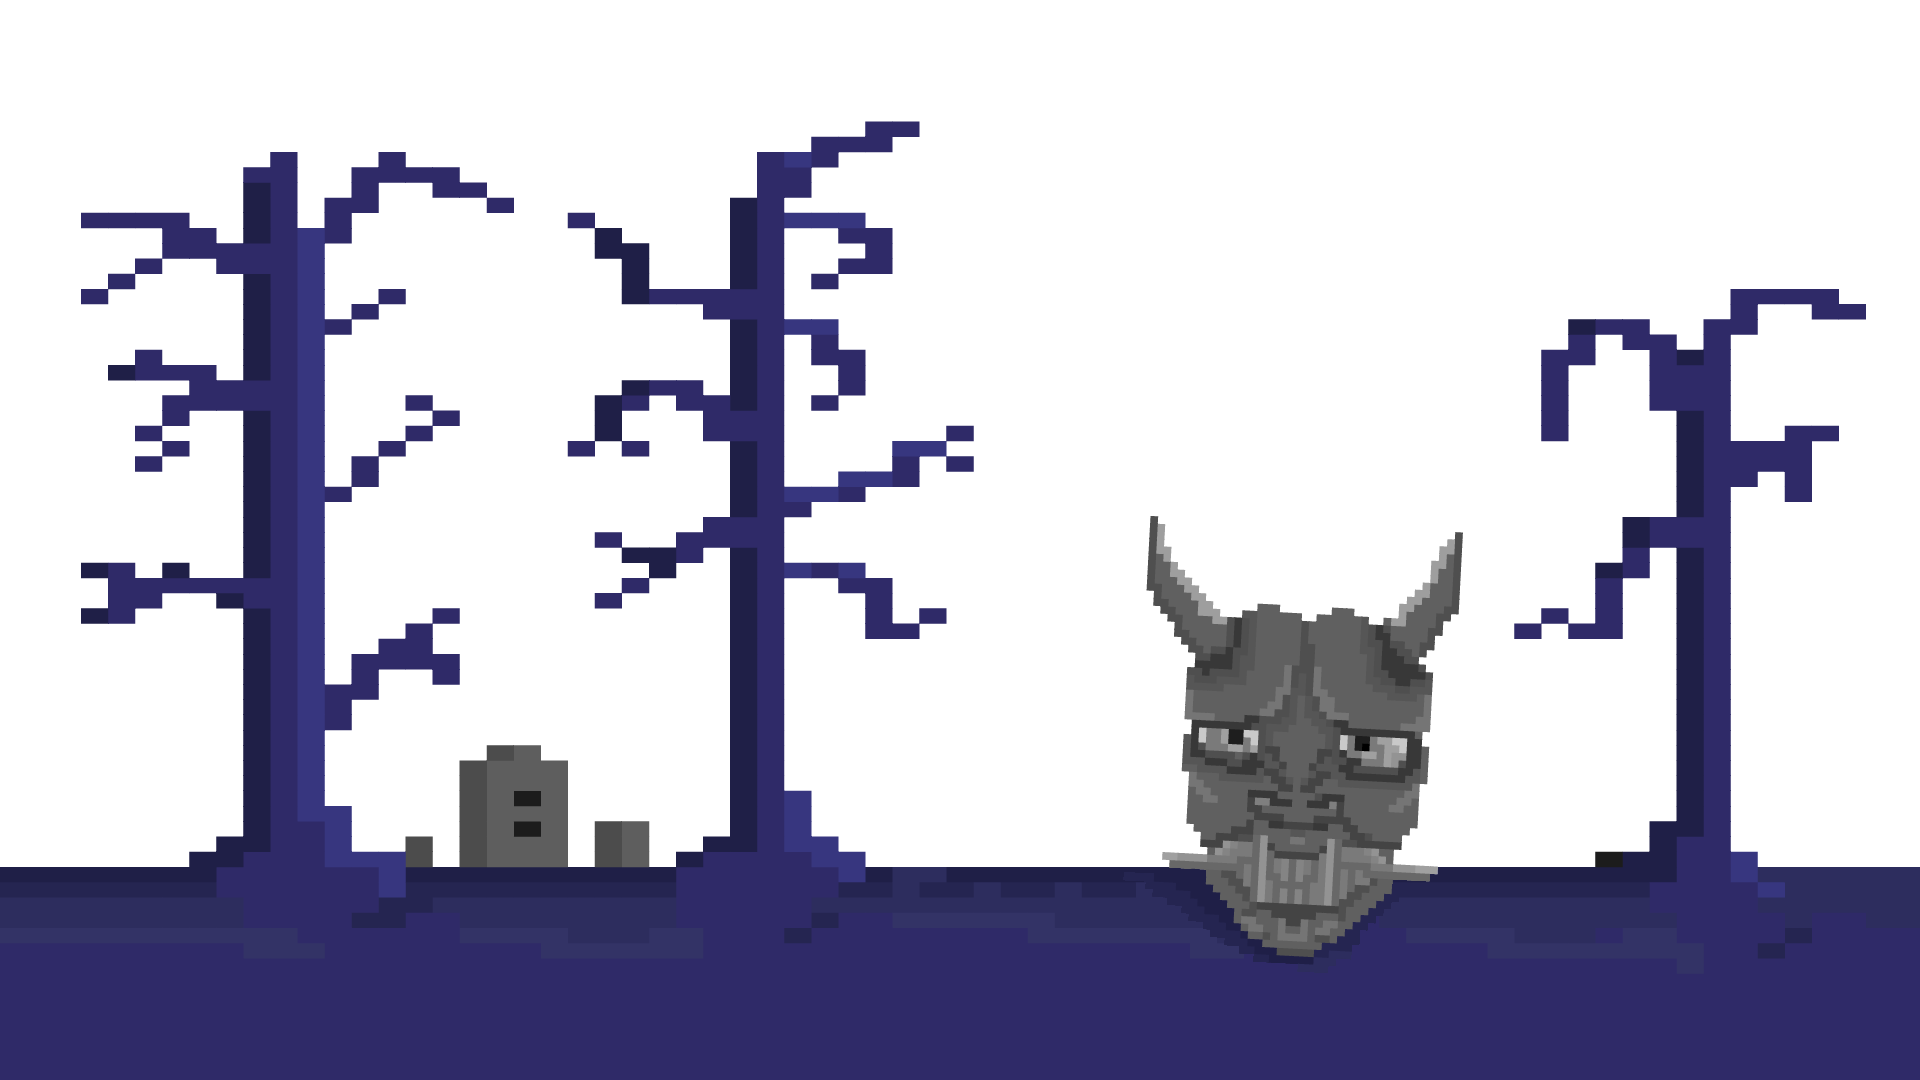
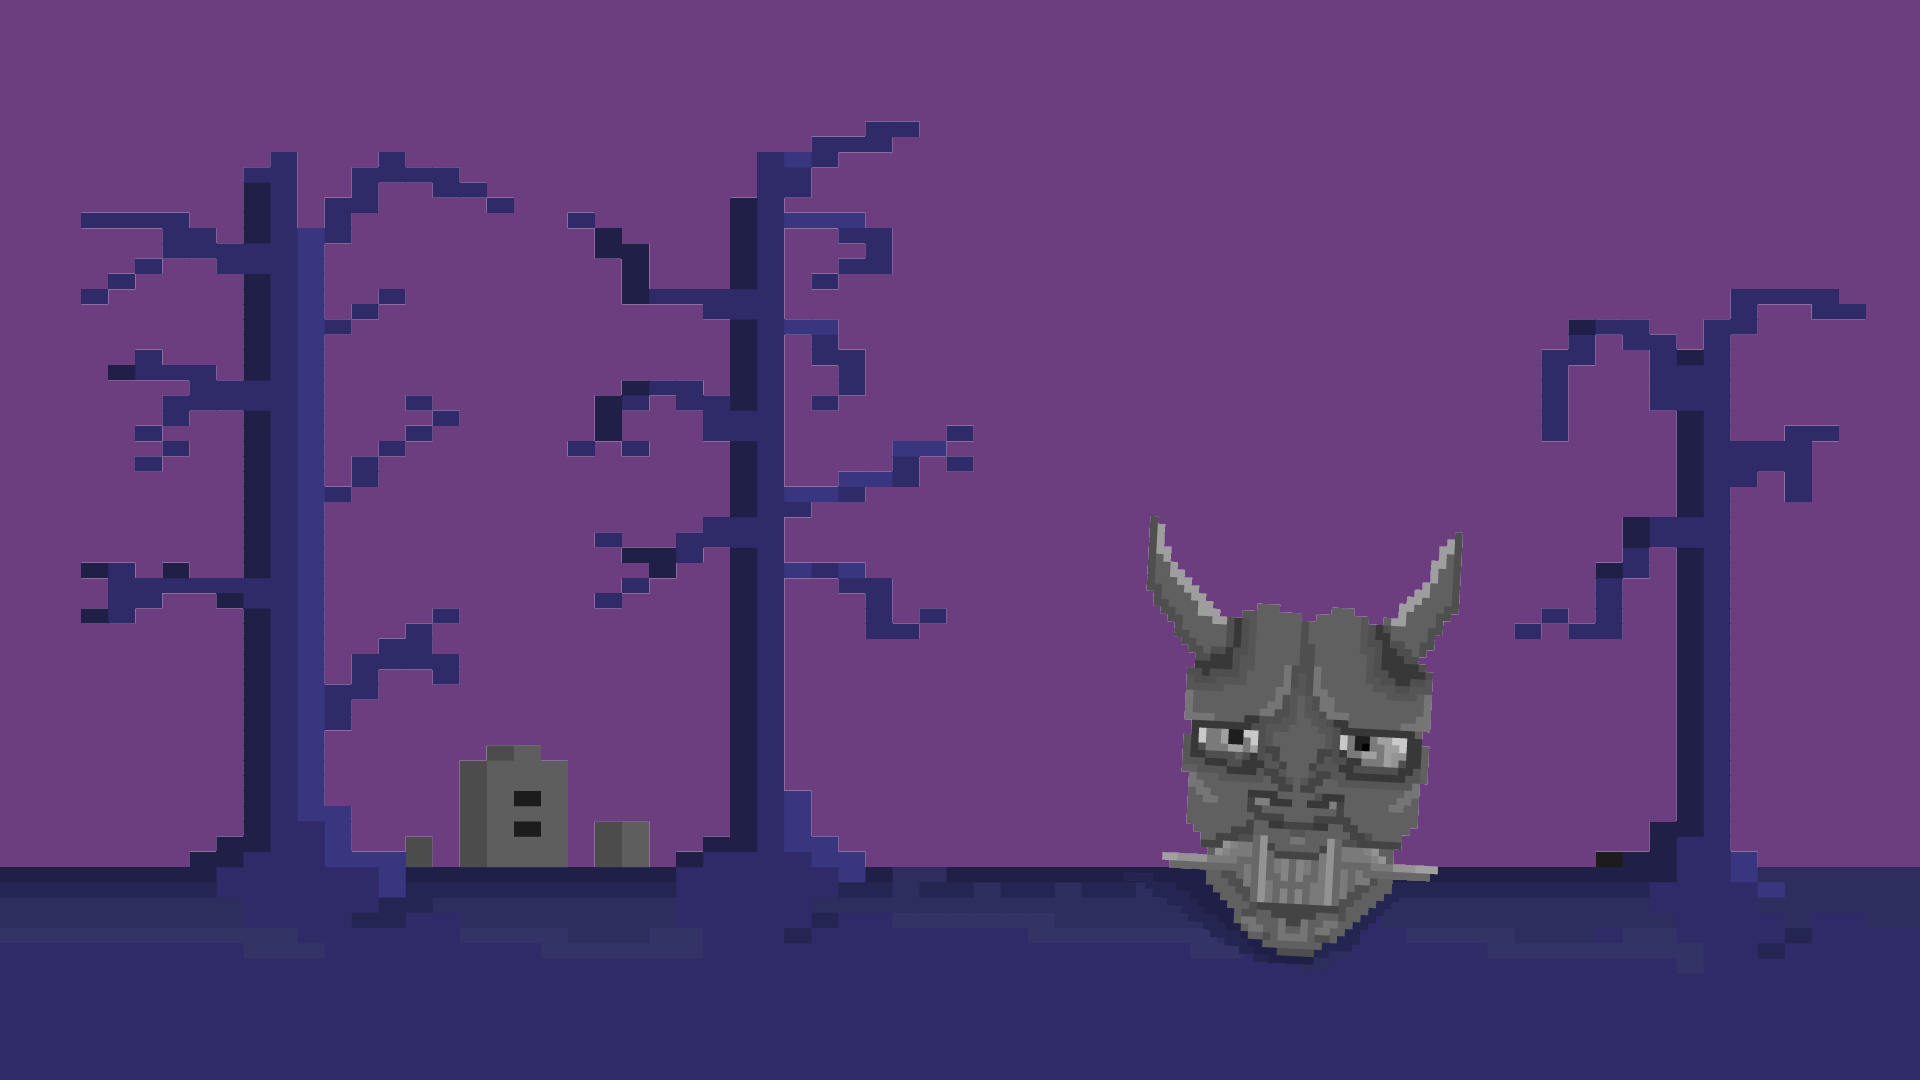
Levels design (#76)
* Added design for level one.

* Complete Level 1

* Changed Lvl2

* Changed Level Backgrounds and finished all levels. Made game more difficult also.

diff --git a/ARGO_Team_D/ARGO_Team_D/Level/Level.cpp b/ARGO_Team_D/ARGO_Team_D/Level/Level.cpp
@@ -31,17 +31,22 @@ bool Level::load(const std::string filepath, ResourceManager * rManager, SDL_Ren
 	{
 		m_goalObj = new Goal(rManager);
 	}
-	if (filepath.find("Level1.tmx") != string::npos || filepath.find("Tutorial") != string::npos) {
-		m_backgrounds.push_back(rManager->getImageResource("Background1"));
-		m_backgrounds.push_back(rManager->getImageResource("Background1-2"));
-		m_backgrounds.push_back(rManager->getImageResource("Background1-3"));
-		m_backgroundColour = { 0, 155, 200, 255 };
-	}
-	else if (filepath.find("Level2") != string::npos) {
+	if (filepath.find("Level2") != string::npos) {
 		m_backgrounds.push_back(rManager->getImageResource("Background2"));
 		m_backgrounds.push_back(rManager->getImageResource("Background2-2"));
 		m_backgrounds.push_back(rManager->getImageResource("Background2-3"));
-		m_backgroundColour = { 108, 62, 127, 255 };
+	}
+	else if(filepath.find("Level3") != string::npos)
+	{
+		m_backgrounds.push_back(rManager->getImageResource("Background3"));
+		m_backgrounds.push_back(rManager->getImageResource("Background3-2"));
+		m_backgrounds.push_back(rManager->getImageResource("Background3-3"));
+	}
+	else
+	{
+		m_backgrounds.push_back(rManager->getImageResource("Background1"));
+		m_backgrounds.push_back(rManager->getImageResource("Background1-2"));
+		m_backgrounds.push_back(rManager->getImageResource("Background1-3"));
 	}
 	std::cout << m_backgrounds.size() << std::endl;
 

diff --git a/ARGO_Team_D/ARGO_Team_D/Factories/EnemyFactory.cpp b/ARGO_Team_D/ARGO_Team_D/Factories/EnemyFactory.cpp
@@ -15,7 +15,7 @@ EnemyFactory::~EnemyFactory()
 Enemy * EnemyFactory::createGunEnemy()
 {
 	Enemy * enemy = createEnemy("GunEnemy", 8, 8, 64, 64, false);
-	enemy->ai = new AiComponent(EnemyGun, 0, 0, 3);
+	enemy->ai = new AiComponent(EnemyGun, 0, 0, 5);
 	auto p = new ParticleEffectsComponent(enemy->body->getBody()->GetPosition().x * WORLD_SCALE,
 		enemy->body->getBody()->GetPosition().y * WORLD_SCALE,
 		5, 5, SDL_Color{ 181, 101, 29 }, SDL_Color{ 255, 0, 0 },
@@ -48,7 +48,7 @@ Enemy * EnemyFactory::createFlyEnemy()
 Enemy * EnemyFactory::createBigEnemy()
 {
 	Enemy * enemy = createEnemy("BigEnemy", 8, 8, 128, 128, false);
-	enemy->ai = new AiComponent(EnemyBig, 0, 0, 10);
+	enemy->ai = new AiComponent(EnemyBig, 0, 0, 15);
 	auto p = new ParticleEffectsComponent(enemy->body->getBody()->GetPosition().x * WORLD_SCALE,
 		enemy->body->getBody()->GetPosition().y * WORLD_SCALE,
 		5, 5, SDL_Color{ 181, 101, 29 }, SDL_Color{ 255, 0, 0 },

diff --git a/ARGO_Team_D/ARGO_Team_D/ECS/Systems/AiSystem.cpp b/ARGO_Team_D/ARGO_Team_D/ECS/Systems/AiSystem.cpp
@@ -4,9 +4,9 @@ AiSystem::AiSystem(BulletManager * bulletManager, BodyComponent * playerBody, co
 	: m_bulletManager(bulletManager),
 	m_playerBody(playerBody),
 	WORLD_SCALE(SCALE),
-	DISTANCE_THRESHOLD(7.f),
-	GUN_ENEMY_ROF_MS(600.f),
-	BIG_ENEMY_ROF_MS(800.f),
+	DISTANCE_THRESHOLD(9.5f),
+	GUN_ENEMY_ROF_MS(550.f),
+	BIG_ENEMY_ROF_MS(650.f),
 	GUN_ENEMY_SPEED(10.f),
 	FLY_ENEMY_SPEED(12.f),
 	BIG_ENEMY_SPEED(5.f),
